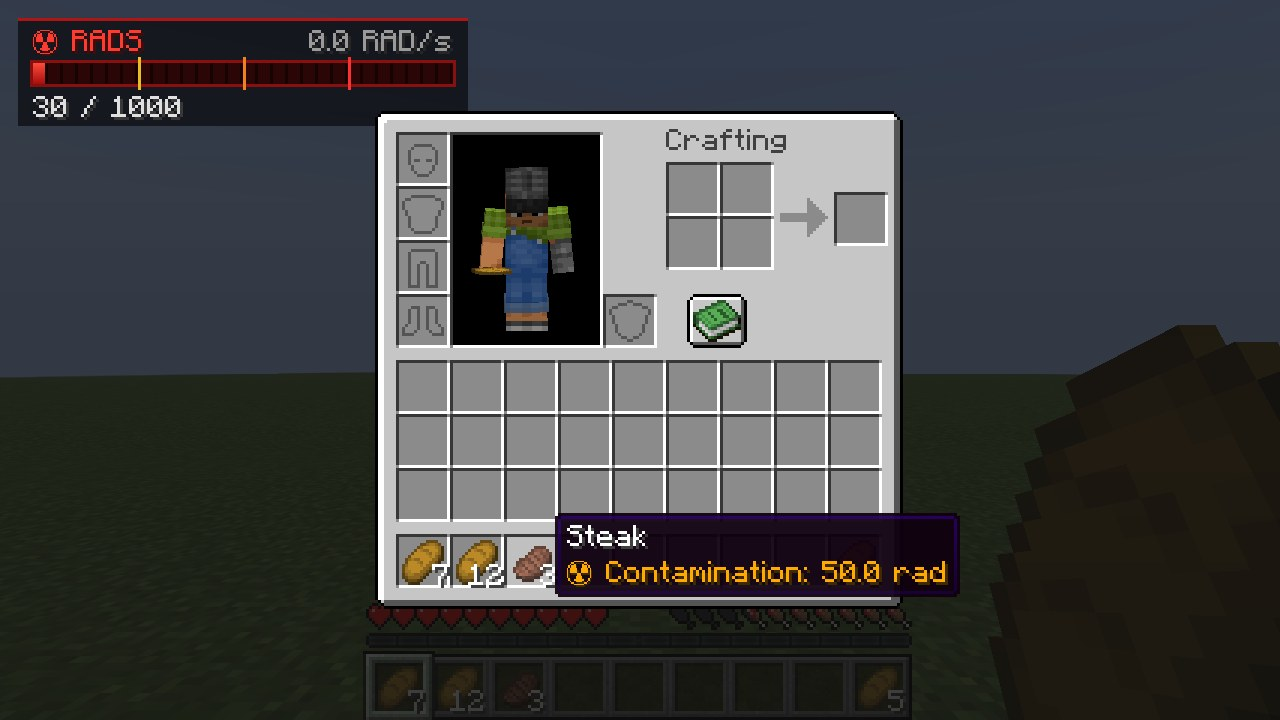
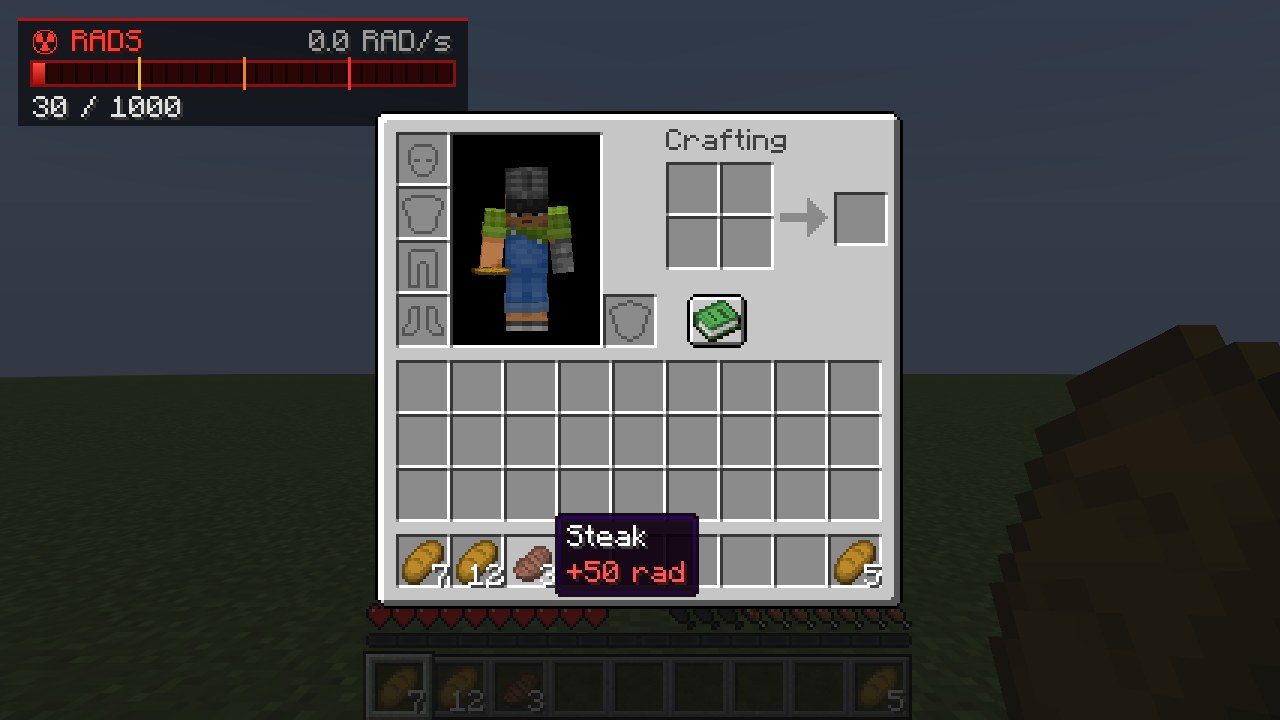
Radiation 1.7.1: contaminated food shows "+30 rad" in red under its name; clean food shows nothing
Claude-Session: https://claude.ai/code/session_01DwBDyE6DbUGuSpeMrTRP6t

Changed region(s): [[0.4375, 0.7028, 0.75, 0.8556]]

diff --git a/src/client/java/dev/radiation/client/RadiationClient.java b/src/client/java/dev/radiation/client/RadiationClient.java
@@ -32,16 +32,12 @@ public class RadiationClient implements ClientModInitializer {
 		net.fabricmc.fabric.api.client.rendering.v1.level.LevelRenderEvents.COLLECT_SUBMITS.register(CloudRenderer::render);
 
 		ClientTickEvents.END_CLIENT_TICK.register(GeigerCounterSound::tick);
-		// every food shows its contamination, right under its name
+		// contaminated food shows the rads it gives, in red right under its name (clean food shows nothing)
 		net.fabricmc.fabric.api.client.item.v1.ItemTooltipCallback.EVENT.register((stack, context, flag, lines) -> {
-			if (!dev.radiation.food.FoodContamination.contaminable(stack) || lines.isEmpty()) return;
 			float rads = dev.radiation.food.FoodContamination.of(stack);
-			net.minecraft.network.chat.Component line = rads <= 0
-					? net.minecraft.network.chat.Component.translatable("tooltip.radiation.clean").withStyle(net.minecraft.ChatFormatting.DARK_GREEN)
-					: net.minecraft.network.chat.Component.translatable("tooltip.radiation.contamination", dev.radiation.food.FoodContamination.format(rads))
-							.withStyle(rads < 1 ? net.minecraft.ChatFormatting.GREEN : rads < 10 ? net.minecraft.ChatFormatting.YELLOW
-									: rads < 100 ? net.minecraft.ChatFormatting.GOLD : net.minecraft.ChatFormatting.RED);
-			lines.add(1, line);
+			if (rads <= 0 || lines.isEmpty()) return;
+			lines.add(1, net.minecraft.network.chat.Component.translatable("tooltip.radiation.contamination", dev.radiation.food.FoodContamination.format(rads))
+					.withStyle(net.minecraft.ChatFormatting.RED));
 		});
 		HudElementRegistry.addLast(RadiationMod.id("rad_meter"), new RadMeterHud());
 

diff --git a/src/main/java/dev/radiation/food/FoodContamination.java b/src/main/java/dev/radiation/food/FoodContamination.java
@@ -162,9 +162,11 @@ public final class FoodContamination {
 		return (float) (Math.round(rads / decade) * decade);
 	}
 
+	/** 30, 5.8, 0.25: no needless decimals. */
 	public static String format(float rads) {
-		return rads >= 100 ? String.format(Locale.ROOT, "%.0f", rads) : rads >= 1 ? String.format(Locale.ROOT, "%.1f", rads)
+		String s = rads >= 10 ? String.format(Locale.ROOT, "%.0f", rads) : rads >= 1 ? String.format(Locale.ROOT, "%.1f", rads)
 				: String.format(Locale.ROOT, "%.2f", rads);
+		return s.contains(".") ? s.replaceAll("0+$", "").replaceAll("\\.$", "") : s;
 	}
 
 	/** Plants whose harvest takes up what is in the ground. */

diff --git a/README.md b/README.md
@@ -14,7 +14,7 @@ Online handbook: https://mchamradio.antwire.net/handbook/radiation/
    as the mod loader (any recent loader version, at least 0.19.5).
 2. Open the instance's **Edit → Mods** page and click **Download mods**. Search for **Fabric API** and
    install it. Radiation needs it.
-3. Click **Add file** and pick `radiation-1.7.0.jar`, or drop the jar onto the mod list.
+3. Click **Add file** and pick `radiation-1.7.1.jar`, or drop the jar onto the mod list.
 4. Start the instance.
 
 For a multiplayer server, put the same jar plus Fabric API into the server's `mods` folder. Every
@@ -166,9 +166,9 @@ and changes come over a few minutes rather than at once. All thresholds are in t
 
 ## Contaminated food
 
-Since 1.7.0 **every food has a contamination**: the rads you take up when you eat it. The tooltip shows it on every
-food (and on what food is made of: wheat, sugar, eggs, milk, pumpkins... the item tag `radiation:contaminable`) -
-*Contamination: none* for clean food. Armour and Rad-X do not help: what you eat is inside you.
+Since 1.7.0 **every food has a contamination**: the rads you take up when you eat it. The tooltip shows it in red right
+under the name - **+30 rad** - on every contaminated food, and on what food is made of (wheat, sugar, eggs, milk,
+pumpkins... the item tag `radiation:contaminable`); clean food shows nothing. Armour and Rad-X do not help: what you eat is inside you.
 
 Food gets contaminated
 - **in the field**: a crop takes up the radiation of the ground it grows on. What a harvest carries depends on the dose
@@ -334,7 +334,7 @@ Requires JDK 25.
 ./gradlew build
 ```
 
-The mod jar ends up in `build/libs/radiation-1.7.0.jar`. `./gradlew runClient` starts a development
+The mod jar ends up in `build/libs/radiation-1.7.1.jar`. `./gradlew runClient` starts a development
 client with the mod loaded. `./gradlew runClientGameTest` runs the vault screenshot tour,
 `./gradlew runClientGameTest -Pscene=ecology` the land, crop and shielding test.
 `./gradlew runClientGameTest -Pscene=food` the contaminated food test (harvest, bread, meat, furnace, storage, eating, tooltips).
